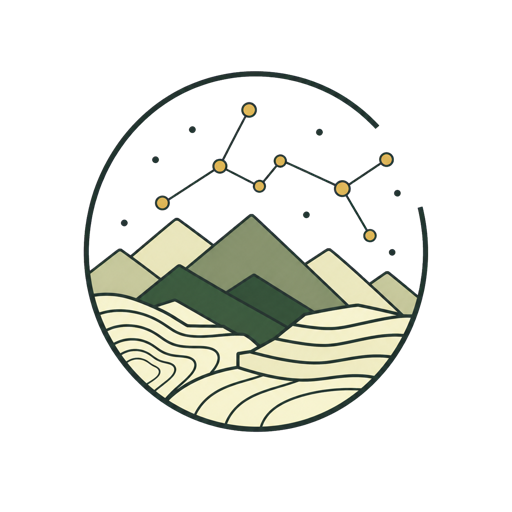
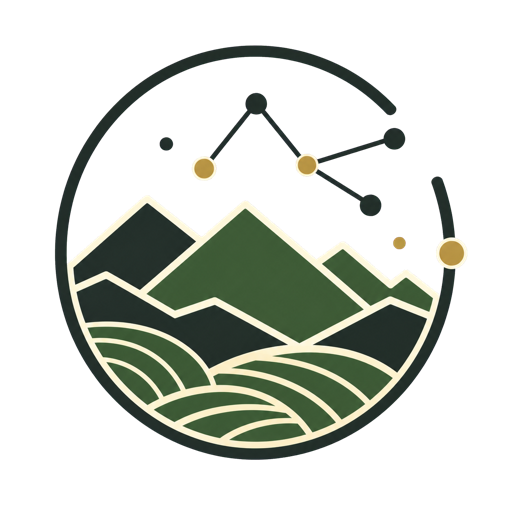
ロゴをbold版に総入れ替え
社長から更新版ロゴ一式（bold・白文字版含む）を受領。
- ヘッダー: logo-black-bg-bold（太字で視認性向上）
- ヒーロー: logo-transparent-bold-white-text（白文字化しダーク背景での視認性問題を解消）
- フッター: mark-black-bg-bold
- favicon: mark-transparent-bold
旧アセットは削除。

Changed region(s): [[0.0938, 0.0625, 0.9062, 0.9062], [0.3125, 0.25, 0.3438, 0.3125], [0.5938, 0.4062, 0.625, 0.4375]]

diff --git a/src/app/page.tsx b/src/app/page.tsx
@@ -55,7 +55,7 @@ export default async function TopPage() {
         />
         <div className="wrap" style={{ position: "absolute", left: 0, right: 0, bottom: 56, color: "#fff" }}>
           <img
-            src="/assets/logo/logo-transparent.png"
+            src="/assets/logo/logo-transparent-bold-white-text.png"
             alt="思想とデータ研究所"
             style={{ width: "min(280px, 60vw)", height: "auto", display: "block", marginBottom: 20 }}
           />

diff --git a/src/components/Footer.tsx b/src/components/Footer.tsx
@@ -15,7 +15,7 @@ export default function Footer() {
       >
         <div style={{ display: "flex", alignItems: "center", gap: 8 }}>
           <img
-            src="/assets/logo/mark-black-bg.png"
+            src="/assets/logo/mark-black-bg-bold.png"
             alt=""
             width={18}
             height={18}

diff --git a/src/components/Nav.tsx b/src/components/Nav.tsx
@@ -38,7 +38,7 @@ export default function Nav() {
       >
         <Link href="/" style={{ display: "flex", alignItems: "center", flex: "none" }}>
           <img
-            src="/assets/logo/logo-black-bg.png"
+            src="/assets/logo/logo-black-bg-bold.png"
             alt="思想とデータ研究所"
             style={{ height: 56, width: "auto", display: "block", borderRadius: 6 }}
           />